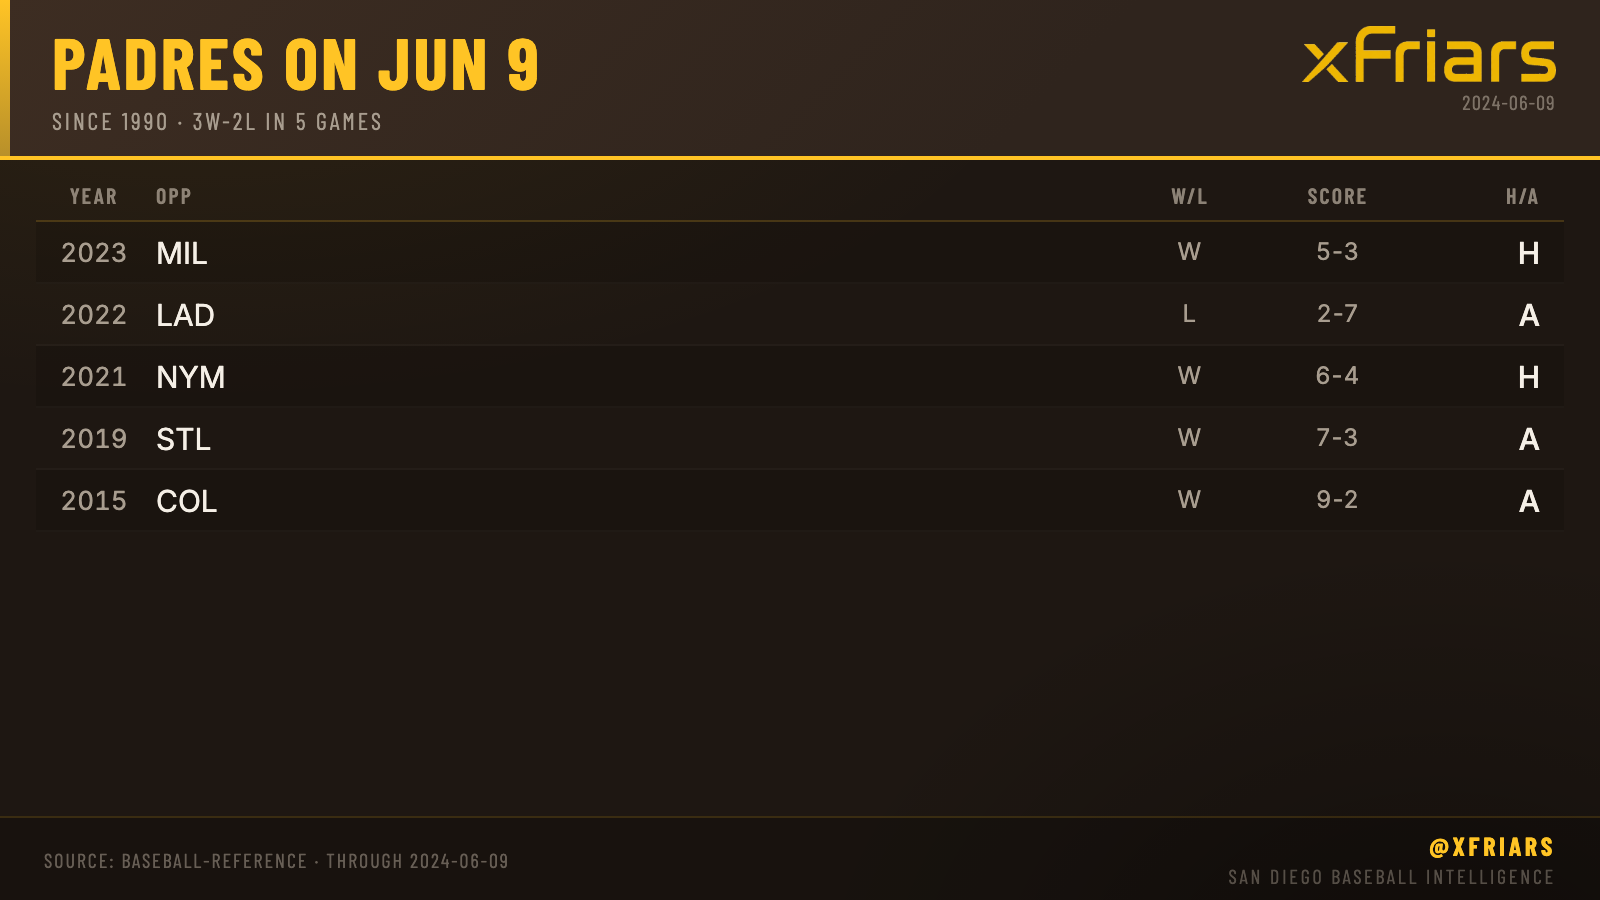
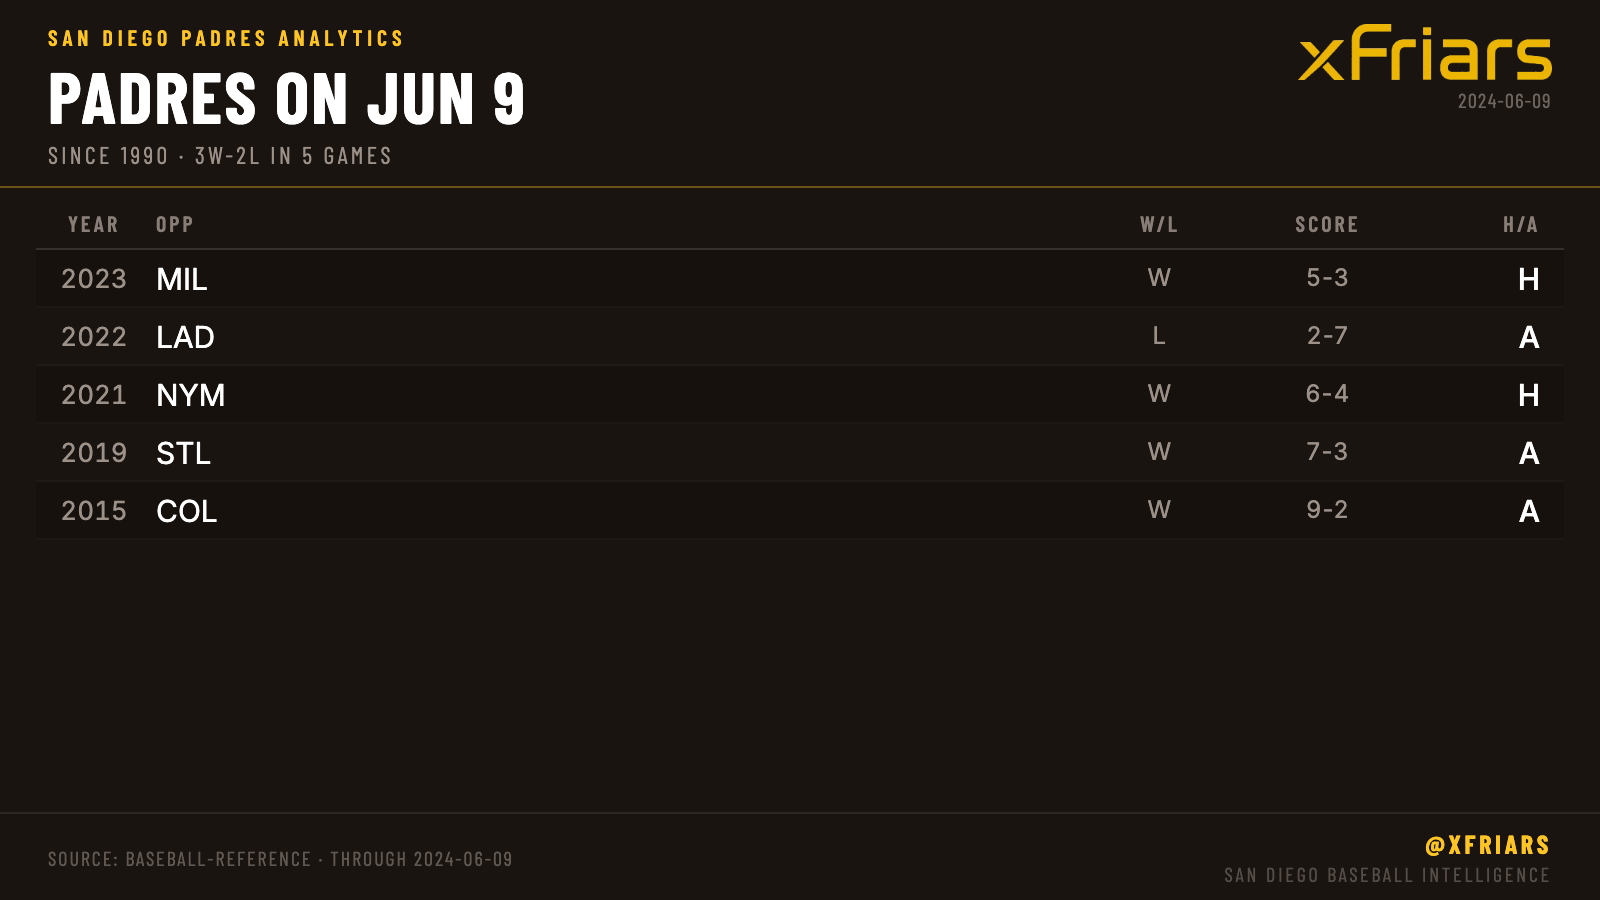
style: v2 visual language — slick dark, gold as accent not flood
Per the refined brand direction: near-black flat canvas, white carries
hierarchy, gold reserved for data ink, kicker labels, and hairlines.

- tokens.py: BG_DEEP #1A1410, TEXT_WHITE, muted gray-sand secondary
- table card: gold kicker (SAN DIEGO PADRES ANALYTICS) + white title,
  flat header with 1px gold hairline (was gradient band + 5px bar),
  white player names/values, softened highlight row, nowrap era column
- studio: hairline nav, white detail/explorer titles, darker canvas
- explorer all_candidates query rounds novelty_score (float leak)
- digit-audit failure now raises HTTPException 422 (FastAPI response-model fix)
- regenerated render snapshot reference

diff --git a/studio/src/index.css b/studio/src/index.css
@@ -1,16 +1,18 @@
 /* ── Brand CSS variables ────────────────────────────────────────────────────── */
 :root {
-  --bg-deep: #1e1712;
-  --bg-panel: #2f241d;
-  --bg-row: #27201a;
+  --bg-deep: #16110d;
+  --bg-panel: #1e1812;
+  --bg-row: #1a1410;
   --gold: #ffc425;
   --gold-dim: #b8902a;
+  --text-white: #ffffff;
   --text-primary: #f5efe6;
-  --text-secondary: #a89d8f;
+  --text-secondary: #9c9189;
   --positive: #7fb069;
   --negative: #c4574e;
-  --border: rgba(255, 196, 37, 0.15);
+  --border: rgba(255, 255, 255, 0.07);
   --border-strong: rgba(255, 196, 37, 0.35);
+  --hairline-gold: rgba(255, 196, 37, 0.25);
   --radius: 6px;
 }
 
@@ -38,8 +40,8 @@ html, body, #root {
   display: flex;
   align-items: center;
   gap: 0;
-  background: var(--bg-panel);
-  border-bottom: 2px solid var(--gold);
+  background: var(--bg-deep);
+  border-bottom: 1px solid var(--hairline-gold);
   padding: 0 24px;
   height: 52px;
   flex-shrink: 0;
@@ -161,7 +163,7 @@ html, body, #root {
   font-size: 13px;
   letter-spacing: 0.06em;
   text-transform: uppercase;
-  color: var(--text-primary);
+  color: var(--text-white);
   flex: 1;
   white-space: nowrap;
   overflow: hidden;
@@ -246,7 +248,7 @@ html, body, #root {
   font-family: "Barlow Condensed", sans-serif;
   font-weight: 700;
   font-size: 28px;
-  color: var(--gold);
+  color: var(--text-white);
   letter-spacing: 0.04em;
   text-transform: uppercase;
   line-height: 1.1;
@@ -312,7 +314,7 @@ html, body, #root {
 .fact-val {
   font-size: 15px;
   font-weight: 600;
-  color: var(--text-primary);
+  color: var(--text-white);
   font-variant-numeric: tabular-nums;
 }
 

diff --git a/studio/src/pages/Queue.tsx b/studio/src/pages/Queue.tsx
@@ -21,14 +21,8 @@ function DraftDetail({ d }: { d: Draft }) {
     setSaving(true);
     setSaveError(null);
     try {
-      const res = await api.updateDraftText(d.draft_id, text);
-      if (!res.saved) {
-        setSaveError(
-          `Numbers not in facts_json: ${res.digit_audit_errors.join(", ")}`,
-        );
-      } else {
-        await mutate("drafts");
-      }
+      await api.updateDraftText(d.draft_id, text);
+      await mutate("drafts");
     } catch (e) {
       setSaveError(String(e));
     } finally {

diff --git a/studio/src/api.ts b/studio/src/api.ts
@@ -81,7 +81,7 @@ export const api = {
   updateDraftText: (
     id: string,
     text: string,
-  ): Promise<{ saved: boolean; digit_audit_errors: string[]; detail?: string }> =>
+  ): Promise<{ saved: boolean }> =>
     fetch(`${BASE}/drafts/${id}`, {
       method: "PATCH",
       headers: { "Content-Type": "application/json" },

diff --git a/studio/src/pages/Explorer.tsx b/studio/src/pages/Explorer.tsx
@@ -95,7 +95,7 @@ export default function Explorer() {
           fontFamily: "Barlow Condensed, sans-serif",
           fontWeight: 700,
           fontSize: 22,
-          color: "var(--gold)",
+          color: "var(--text-white)",
           letterSpacing: "0.04em",
           textTransform: "uppercase",
           marginBottom: 16,

diff --git a/src/padres_analytics/app/api.py b/src/padres_analytics/app/api.py
@@ -15,7 +15,7 @@ from typing import Any
 import duckdb
 from fastapi import FastAPI, HTTPException
 from fastapi.middleware.cors import CORSMiddleware
-from fastapi.responses import FileResponse, JSONResponse
+from fastapi.responses import FileResponse
 from fastapi.staticfiles import StaticFiles
 from pydantic import BaseModel
 
@@ -264,7 +264,7 @@ class DraftTextUpdate(BaseModel):
 
 
 @app.patch("/api/drafts/{draft_id}")
-def update_draft_text(draft_id: str, body: DraftTextUpdate) -> JSONResponse | dict[str, Any]:
+def update_draft_text(draft_id: str, body: DraftTextUpdate) -> dict[str, Any]:
     """Update caption text with digit-audit validation."""
     if len(body.text) > 280:
         raise HTTPException(status_code=422, detail="Caption exceeds 280 characters")
@@ -288,14 +288,9 @@ def update_draft_text(draft_id: str, body: DraftTextUpdate) -> JSONResponse | di
     facts: dict[str, Any] = json.loads(row[0]) if isinstance(row[0], str) else row[0]
     offenders = digit_audit(body.text, facts)
     if offenders:
-        return JSONResponse(
+        raise HTTPException(
             status_code=422,
-            content={
-                "draft_id": draft_id,
-                "digit_audit_errors": offenders,
-                "saved": False,
-                "detail": f"Numbers not in facts_json: {offenders}",
-            },
+            detail=f"Digit audit failed — numbers not in facts_json: {offenders}",
         )
 
     conn_w = _rw()
@@ -342,7 +337,7 @@ _EXPLORER_QUERIES: dict[str, tuple[str, bool]] = {
     "all_candidates": (
         """
         SELECT candidate_id, detector, subject, CAST(as_of AS VARCHAR) as as_of,
-               novelty_score, status, claim_scope
+               ROUND(novelty_score, 3) AS novelty_score, status, claim_scope
         FROM stat_candidates
         ORDER BY novelty_score DESC
         LIMIT 200

diff --git a/src/padres_analytics/render/tokens.py b/src/padres_analytics/render/tokens.py
@@ -7,13 +7,14 @@ from __future__ import annotations
 
 from pathlib import Path
 
-# ── Padres brand colors (verified) ────────────────────────────────────────────
-BG_DEEP = "#1E1712"  # card background
-BG_PANEL = "#2F241D"  # header band (brand brown)
-GOLD = "#FFC425"  # brand gold — highlights, rules, watermark
+# ── Palette v2 — slick tech-forward dark; gold is data-ink/accent, never a flood
+BG_DEEP = "#1A1410"  # near-black warm canvas, flat
+BG_PANEL = "#211A14"  # barely-lighter panel (sparing use)
+GOLD = "#FFC425"  # brand gold — data ink, key numbers, small-caps labels, hairlines
 GOLD_DIM = "#B8902A"  # secondary gold for sub-accents
-TEXT_PRIMARY = "#F5EFE6"  # warm off-white
-TEXT_SECONDARY = "#A89D8F"  # muted sand — labels, footers
+TEXT_WHITE = "#FFFFFF"  # titles, names, big numbers — white carries hierarchy
+TEXT_PRIMARY = "#F5EFE6"  # warm off-white body
+TEXT_SECONDARY = "#9C9189"  # muted gray-sand — labels, axis text, captions
 ROW_ALT = "#27201A"  # alternating row tint
 HIGHLIGHT_BG = "#3D2F1F"  # Padre-row band
 HIGHLIGHT_EDGE = "#FFC425"  # 4px left border on the Padre row